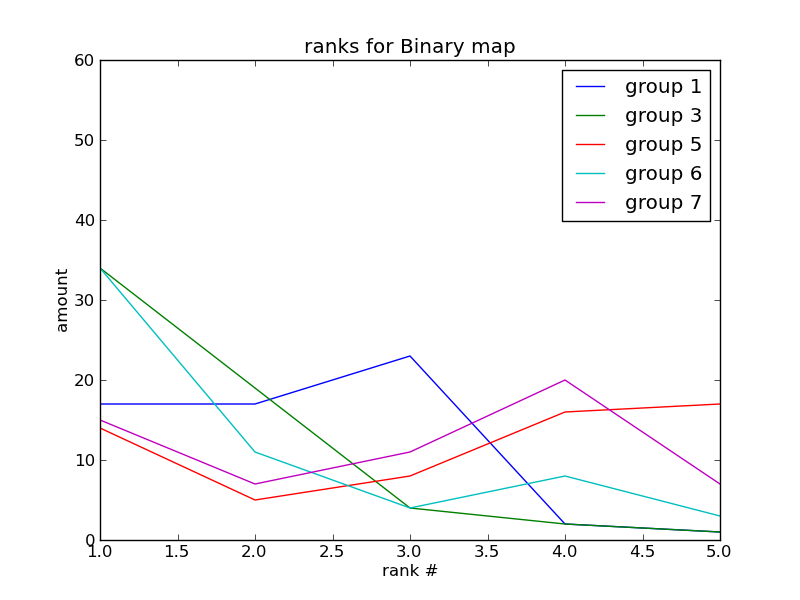
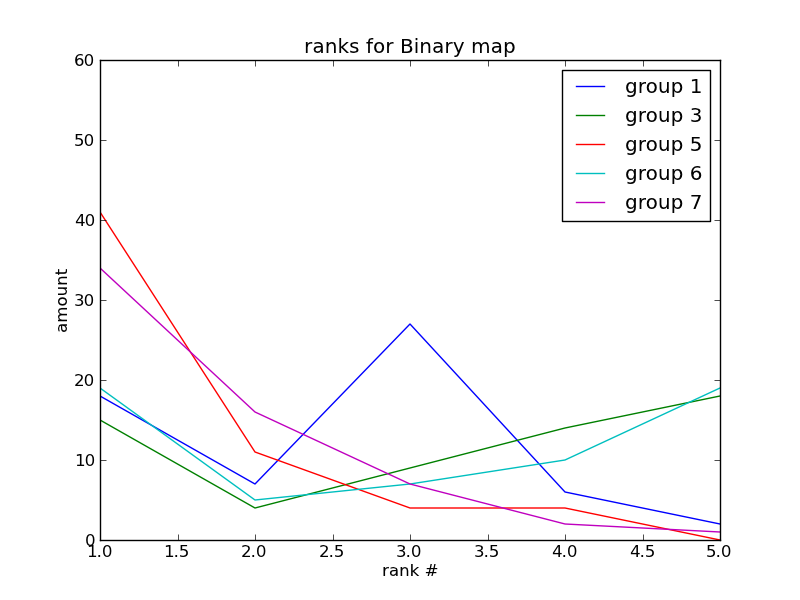
updated

diff --git a/analysis/analysis.py b/analysis/analysis.py
@@ -1,7 +1,7 @@
+types = {}
 def get_data():
     m = open("AllMappingUpToHundred.txt", "r")
     count = 0
-    types = {}
     challenges = {}
     for j in m.readlines():
         z = j.split()
@@ -27,7 +27,8 @@ def rank(arr, t, player):
         if player == j[0]:
             score = j[1]
     for other in contest:
-        if other[0] != player and other[1] > score:
+#        print other
+        if other[0] != player and other[1] < score:
             rank+=1
     return rank
 
@@ -54,28 +55,32 @@ def analyze():
 def show_analysis():
     import pylab
     r, c, t = analyze()
-    print r, c, t
+#    print r, c, t
     maps = {}
     for i in t:
         count = 1
         bins = {}
         for m in t[i]:
-            bins = pylab.hist([z[1] for z in t[i][m]], bins=60)
+            bins = pylab.hist([z[0] for z in t[i][m]], bins=5, range=(1,5))
             if m not in maps:
                 maps[m] = {}
+            
+            #print m,maps[m]
             maps[m][i] = bins
     pylab.clf()
     for m in maps:
         for i in maps[m]:
-            print maps[m][i][0]
-            pylab.plot([float(j) * 10/6 for j in xrange(60)], maps[m][i][0],  label="group %d" % i)
-        pylab.ylim([0, 30])
-        pylab.xlim([0, 100])
-        pylab.xlabel("query size (% of N)")
+            if i==7:
+                print m, t[i][m], maps[m][i][0]
+#            print maps[m][i][0]
+            pylab.plot([j+1 for j in xrange(5)], maps[m][i][0],  label="group %d" % i)
+        pylab.ylim([0, 60])
+        pylab.xlim([1, 5])
+        pylab.xlabel("rank #")
         pylab.ylabel("amount")
-        pylab.legend(loc=2)
-        pylab.title("scores for %s map" % m)
-        pylab.savefig("scorefor%s.png" % m)
+        pylab.legend()
+        pylab.title("ranks for %s map" % m)
+        pylab.savefig("rankfor%s.png" % m)
         pylab.show()
         #pylab.clf()
 
